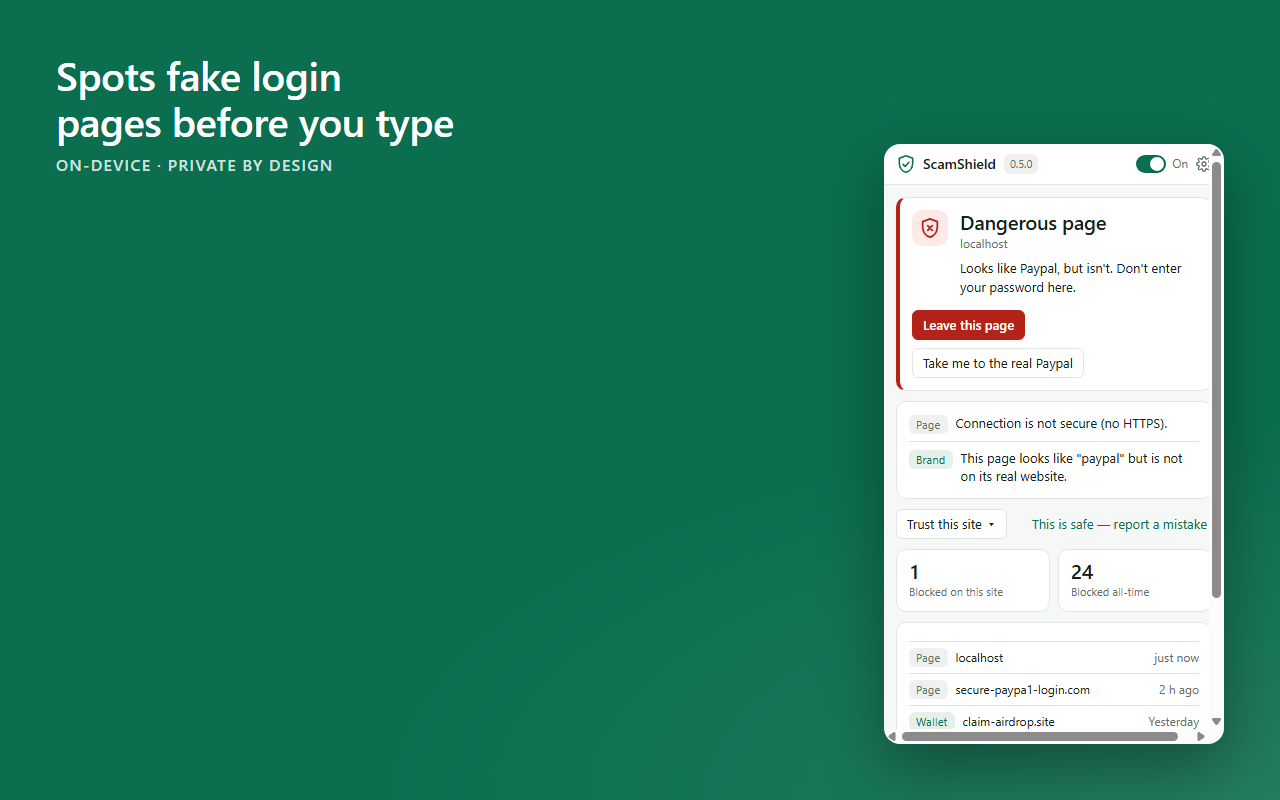
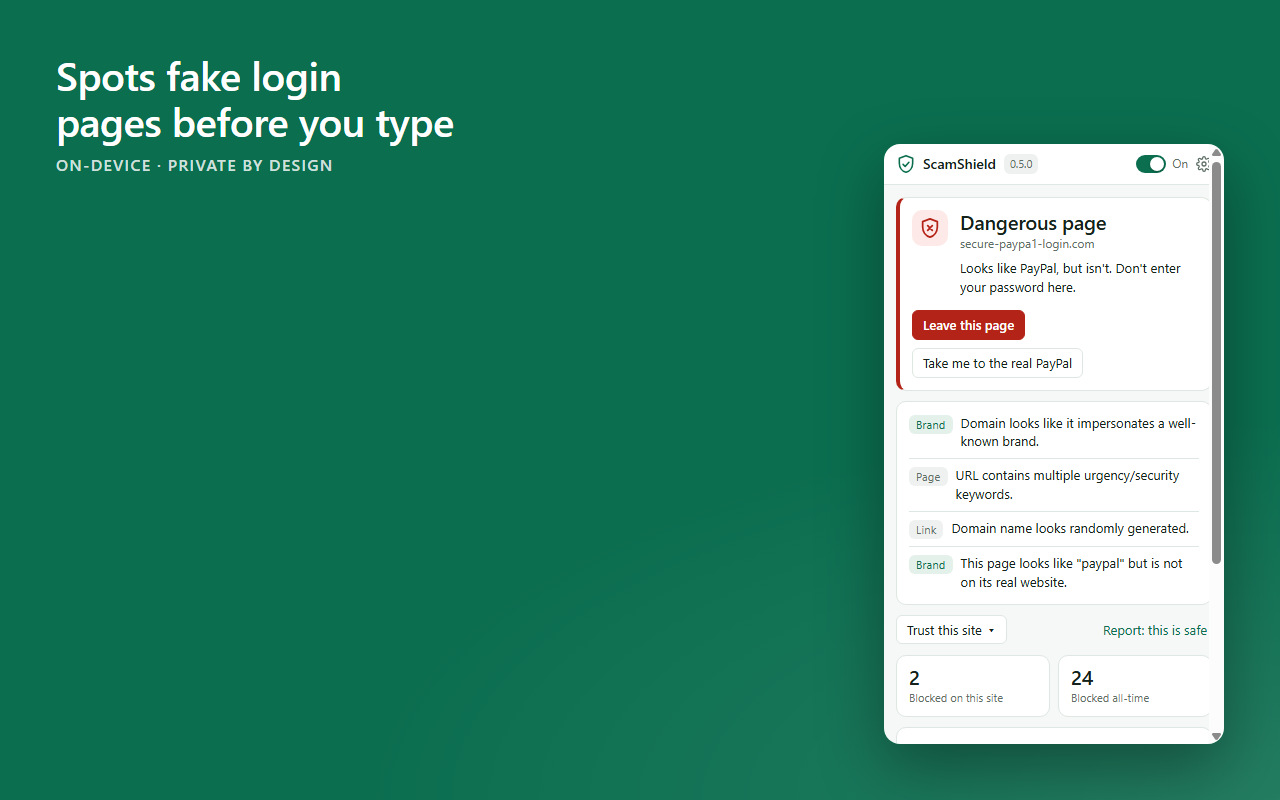
chore: regenerate store screenshots against a realistic phishing host
Store screenshots and the promo marquee crop were captured against plain
localhost:5599, so the popup's host line and banner never looked like a
real phishing URL. Added secure-paypa1-login.com to the Playwright/tools
host-resolver-rules (both tests/e2e/fixtures.js and tools/screenshots.js)
and pointed shot 01 at the HTTPS fixture
https://secure-paypa1-login.com:5600/brand-visual.html, which already
carries "PayPal" in its title/og tags and now renders with the #1/#18
button-style fixes. The promo marquee's popup crop is derived from shot 01
so it picks up the same fix automatically. Shot 02 (banner) now captures at
900x360 instead of 1100x640 so the thin banner fills more of the promo
frame instead of sitting atop a tall slab of empty page.

Regenerated via npm run screenshots && npm run promo; all PNGs reviewed —
no horizontal scrollbars, no clipped text, brand reads "PayPal", dark-theme
shot renders correctly.

diff --git a/tools/screenshots.js b/tools/screenshots.js
@@ -20,7 +20,7 @@ const sleep = (ms) => new Promise((r) => setTimeout(r, ms));
       // the fixture pages (brand-visual.html etc.) resolve and render as they
       // do under the real e2e suite.
       '--ignore-certificate-errors',
-      '--host-resolver-rules=MAP amazon.ae 127.0.0.1, MAP accounts.google.com 127.0.0.1, MAP shop.contoso-fixture.com 127.0.0.1, MAP portal-hr-benefits.fixture 127.0.0.1, MAP www.aramex.com 127.0.0.1'
+      '--host-resolver-rules=MAP amazon.ae 127.0.0.1, MAP accounts.google.com 127.0.0.1, MAP shop.contoso-fixture.com 127.0.0.1, MAP portal-hr-benefits.fixture 127.0.0.1, MAP www.aramex.com 127.0.0.1, MAP secure-paypa1-login.com 127.0.0.1'
     ]
   });
   for (let i = 0; i < 30 && !ctx.serviceWorkers()[0]; i++) await sleep(100);
@@ -49,12 +49,19 @@ const sleep = (ms) => new Promise((r) => setTimeout(r, ms));
     const png = await p.screenshot(); await p.close(); if (theme) await sw.evaluate(() => setSettings({ theme: 'auto' })); return { png, w: 340, h: Math.min(600, h) };
   }
   console.log('Capturing…');
-  // 1 popup on a dangerous look-alike page
-  let page = await ctx.newPage(); await page.goto(BASE + '/brand-visual.html'); await sleep(900);
+  // 1 popup on a dangerous look-alike page — served from the mapped
+  // secure-paypa1-login.com:5600 HTTPS fixture (not localhost:5599) so the
+  // popup's host line reads like a real phishing domain. brand-visual.html
+  // already carries "PayPal" in its title/og tags, which trips the NAME rule
+  // on this host and produces the brand = paypal rescue button.
+  let page = await ctx.newPage(); await page.goto('https://secure-paypa1-login.com:5600/brand-visual.html'); await sleep(900);
   let s = await popupShot(page); await compose('01-popup-dangerous.png', 'Spots fake login pages before you type', s.png, s.w, s.h); await page.close();
-  // 2 in-page banner with rescue
-  page = await ctx.newPage(); await page.setViewportSize({ width: 1100, height: 640 }); await page.goto(BASE + '/brand-visual.html'); await page.locator('.scamshield-banner').waitFor({ timeout: 8000 });
-  await compose('02-banner-rescue.png', 'One click back to the real site', await page.screenshot(), 1100, 640); await page.close();
+  // 2 in-page banner with rescue — a shorter, narrower viewport so the
+  // banner (a thin bar pinned to the top of the page) occupies much more of
+  // the frame's cropped area instead of sitting atop a tall slab of empty
+  // page background.
+  page = await ctx.newPage(); await page.setViewportSize({ width: 900, height: 360 }); await page.goto(BASE + '/brand-visual.html'); await page.locator('.scamshield-banner').waitFor({ timeout: 8000 });
+  await compose('02-banner-rescue.png', 'One click back to the real site', await page.screenshot(), 900, 360); await page.close();
   // 3 popup safe + message checker open with a verdict
   page = await ctx.newPage(); await page.goto(BASE + '/clean.html'); await sleep(500);
   const pp = await ctx.newPage(); await pp.setViewportSize({ width: 340, height: 600 }); await pp.goto(`chrome-extension://${id}/popup.html`); await page.bringToFront(); await pp.reload(); await sleep(500);

diff --git a/tests/e2e/fixtures.js b/tests/e2e/fixtures.js
@@ -19,7 +19,7 @@ const test = base.extend({
         // Let specs exercise real hostnames (SAFE_DOMAINS, SSO providers, and
         // synthetic HTTPS-fixture hosts) against the local fixtures server.
         // Hostname matching ignores ports.
-        '--host-resolver-rules=MAP amazon.ae 127.0.0.1, MAP accounts.google.com 127.0.0.1, MAP shop.contoso-fixture.com 127.0.0.1, MAP portal-hr-benefits.fixture 127.0.0.1, MAP www.aramex.com 127.0.0.1'
+        '--host-resolver-rules=MAP amazon.ae 127.0.0.1, MAP accounts.google.com 127.0.0.1, MAP shop.contoso-fixture.com 127.0.0.1, MAP portal-hr-benefits.fixture 127.0.0.1, MAP www.aramex.com 127.0.0.1, MAP secure-paypa1-login.com 127.0.0.1'
       ]
     });
     for (let i = 0; i < 30 && !context.serviceWorkers()[0]; i++) await new Promise((r) => setTimeout(r, 100));
